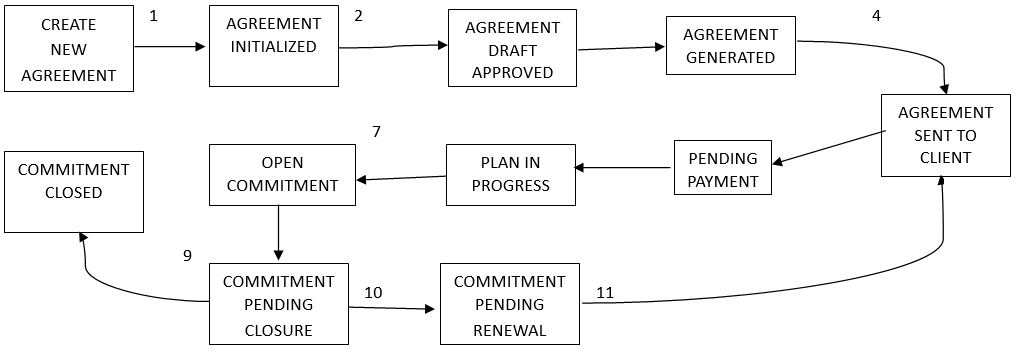
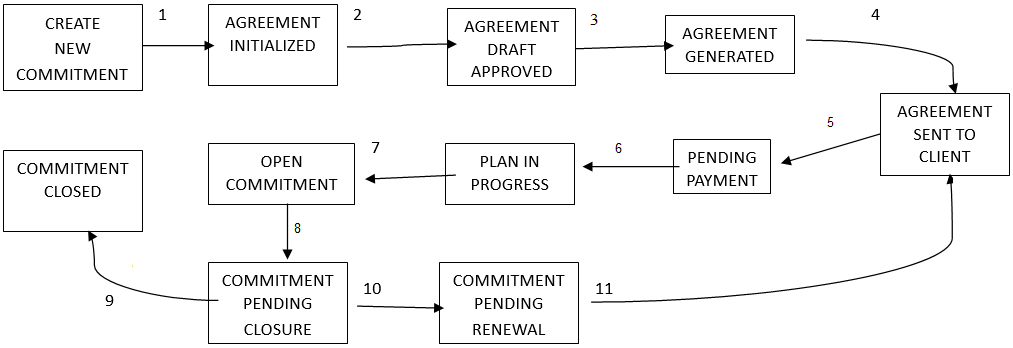
flow-update2

diff --git a/jssrv/webapp3/be/FLOW/flow.md b/jssrv/webapp3/be/FLOW/flow.md
@@ -1,18 +1,30 @@
 ```
 ┌──────────────┐      ┌───────────┐ 	 ┌──────────────┐      ┌──────────┐ 
-│   CREATE     +--1->-+ AGREEMENT +--2->-+ AGREEMENT    +--3->-+ AGREEMENT+---4->-
-│NEW COMMITMENT│      │INITIALIZED│   	 │DRAFT APPROVED│      │GENERATED │  	
-└──────────────┘      └───────────┘      └──────────────┘      └──────────┘ 
-	   														   
-┌──────────────┐      ┌───────────┐ 	 ┌──────────────┐      ┌──────────┐ 
-│  COMMITMENT  |      |   OPEN    +-<-7--+ 	   PLAN     +-<-6--+ PENDING  +--<-5--
-│    CLOSED    │      │COMMITMENT │   	 │ IN PROGRESS  │      | PAYMENT  │ 
-└──────+───────┘      └────+──────┘      └──────────────┘      └──────────┘ 
-
-
-                      ┌────+──────┐      ┌──────────────┐
-       +----<--9------+ COMMITMENT+-10->-+  COMMITMENT  +---------11-->-----------
-                      |  PENDING  |      |    PENDING   |
-                      |  CLOSURE  |      |    RENEWAL   |
+│   CREATE     +──1─>─+ AGREEMENT +──2─>─+ AGREEMENT    +──3─>─+ AGREEMENT+──4─>───────+
+│NEW COMMITMENT│      │INITIALIZED│   	 │DRAFT APPROVED│      │GENERATED │            │  	
+└──────────────┘      └───────────┘      └──────────────┘      └──────────┘            V
+                                                                                       │									   
+┌──────────────┐      ┌───────────┐ 	 ┌──────────────┐      ┌──────────┐       ┌────+─────────┐ 
+│  COMMITMENT  │      │   OPEN    +─<─7──+ 	   PLAN     +─<─6──+ PENDING  +──<─5──+  AGREEMENT   │
+│    CLOSED    │      │COMMITMENT │   	 │ IN PROGRESS  │      │ PAYMENT  │       │SENT TO CLIENT│ 
+└──────+───────┘      └────+──────┘      └──────────────┘      └──────────┘       └────+─────────┘      
+       │                   │8                                                          │
+       ^                   V                                                           ^
+       │              ┌────+──────┐      ┌──────────────┐                              │
+       +────<──9──────+ COMMITMENT+─10─>─+  COMMITMENT  +────────────────────11─>──────+    
+                      │  PENDING  │      │    PENDING   │
+                      │  CLOSURE  │      │    RENEWAL   │
                       └───────────┘      └──────────────┘                       
 ```
+
+1
+2
+3
+4
+5
+6
+7
+8
+9
+10
+11
